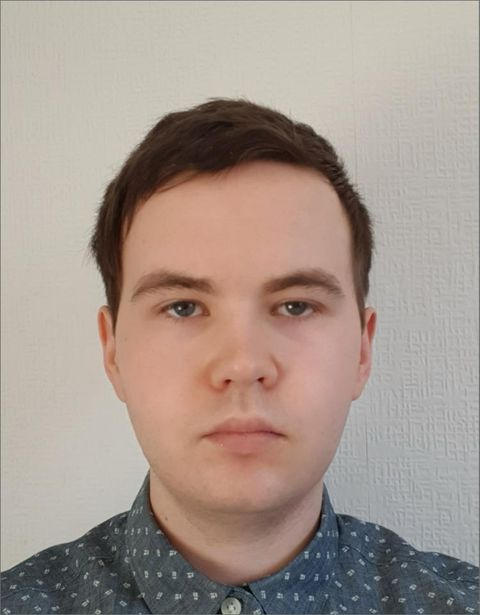
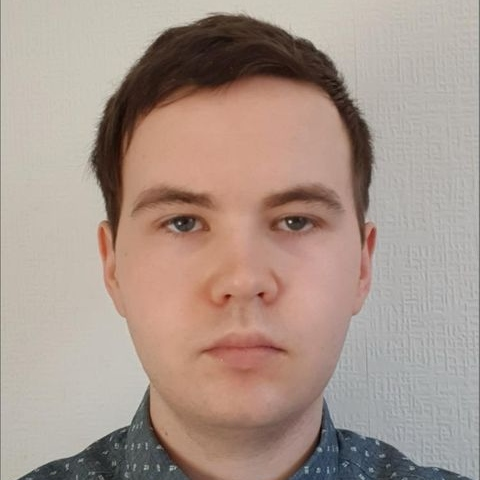
added andrew's photo, updated roles, removed duplicate/placeholder photos

diff --git a/templates/base.html b/templates/base.html
@@ -50,7 +50,7 @@
                             <a
                                 href="#0"
                                 class="hover:text-blue-600 transition-colors duration-300"
-                                >Top30</a
+                                >Top 30</a
                             >
                         </div>
                         <div class="hidden font-medium lg:block">
@@ -154,7 +154,7 @@
                             />
                             <div class="space-y-1">
                                 <h4 class="font-medium lg:text-lg">Oleg Negruta</h4>
-                                <p class="text-gray-600">Director</p>
+                                <p class="text-gray-600">Front-end</p>
                             </div>
                         </div>
                         <!-- End Team Member Box -->
@@ -168,12 +168,12 @@
                                     duration-200
                                     hover:shadow-lg
                                 "
-                                src="../static/team/will2.jpg"
+                                src="../static/team/will.jpg"
                                 alt="Team Member 1"
                             />
                             <div class="space-y-1">
                                 <h4 class="font-medium lg:text-lg">William King</h4>
-                                <p class="text-gray-600">Manager</p>
+                                <p class="text-gray-600">Front-end</p>
                             </div>
                         </div>
                         <!-- End Team Member Box -->
@@ -192,7 +192,7 @@
                             />
                             <div class="space-y-1">
                                 <h4 class="font-medium lg:text-lg">Saverio Cutrupi</h4>
-                                <p class="text-gray-600">Strategist</p>
+                                <p class="text-gray-600">Automation</p>
                             </div>
                         </div>
                         <!-- End Team Member Box -->
@@ -206,12 +206,12 @@
                                     duration-200
                                     hover:shadow-lg
                                 "
-                                src="../static/team/jordan2.jpg"
+                                src="../static/team/jordan.jpg"
                                 alt="Team Member 1"
                             />
                             <div class="space-y-1">
                                 <h4 class="font-medium lg:text-lg">Jordan Clarke</h4>
-                                <p class="text-gray-600">Supervisor</p>
+                                <p class="text-gray-600">Tester</p>
                             </div>
                         </div>
                         <!-- End Team Member Box -->
@@ -230,7 +230,7 @@
                             />
                             <div class="space-y-1">
                                 <h4 class="font-medium lg:text-lg">Jose Torres</h4>
-                                <p class="text-gray-600">Planner</p>
+                                <p class="text-gray-600">Tester</p>
                             </div>
                         </div>
                         <!-- End Team Member Box -->
@@ -248,8 +248,8 @@
                                 alt="Team Member 1"
                             />
                             <div class="space-y-1">
-                                <h4 class="font-medium lg:text-lg">Yessenia Mann</h4>
-                                <p class="text-gray-600">Consultant</p>
+                                <h4 class="font-medium lg:text-lg">Ula Ziolko</h4>
+                                <p class="text-gray-600">Front-end</p>
                             </div>
                         </div>
                         <!-- End Team Member Box -->
@@ -267,8 +267,8 @@
                                 alt="Team Member 1"
                             />
                             <div class="space-y-1">
-                                <h4 class="font-medium lg:text-lg">Lon Abshire</h4>
-                                <p class="text-gray-600">Producer</p>
+                                <h4 class="font-medium lg:text-lg">Isobel Fitt-Conway</h4>
+                                <p class="text-gray-600">Automation</p>
                             </div>
                         </div>
                         <!-- End Team Member Box -->
@@ -286,8 +286,8 @@
                                 alt="Team Member 1"
                             />
                             <div class="space-y-1">
-                                <h4 class="font-medium lg:text-lg">Alanna Harris</h4>
-                                <p class="text-gray-600">Engineer</p>
+                                <h4 class="font-medium lg:text-lg">Arun Panesar</h4>
+                                <p class="text-gray-600">Tester</p>
                             </div>
                         </div>
                         <!-- End Team Member Box -->
@@ -305,8 +305,8 @@
                                 alt="Team Member 1"
                             />
                             <div class="space-y-1">
-                                <h4 class="font-medium lg:text-lg">Alanna Harris</h4>
-                                <p class="text-gray-600">Engineer</p>
+                                <h4 class="font-medium lg:text-lg">Alexis Othonos</h4>
+                                <p class="text-gray-600">Front-end</p>
                             </div>
                         </div>
                         <!-- End Team Member Box -->
@@ -324,8 +324,8 @@
                                 alt="Team Member 1"
                             />
                             <div class="space-y-1">
-                                <h4 class="font-medium lg:text-lg">Alanna Harris</h4>
-                                <p class="text-gray-600">Engineer</p>
+                                <h4 class="font-medium lg:text-lg">Benjamin Ranson</h4>
+                                <p class="text-gray-600">Automation</p>
                             </div>
                         </div>
                         <!-- End Team Member Box -->
@@ -339,12 +339,12 @@
                                     duration-200
                                     hover:shadow-lg
                                 "
-                                src="../static/team/8.png"
+                                src="../static/team/andrew.jpeg"
                                 alt="Team Member 1"
                             />
                             <div class="space-y-1">
-                                <h4 class="font-medium lg:text-lg">Alanna Harris</h4>
-                                <p class="text-gray-600">Engineer</p>
+                                <h4 class="font-medium lg:text-lg">Andrew Asare</h4>
+                                <p class="text-gray-600">Automation</p>
                             </div>
                         </div>
                         <!-- End Team Member Box -->
